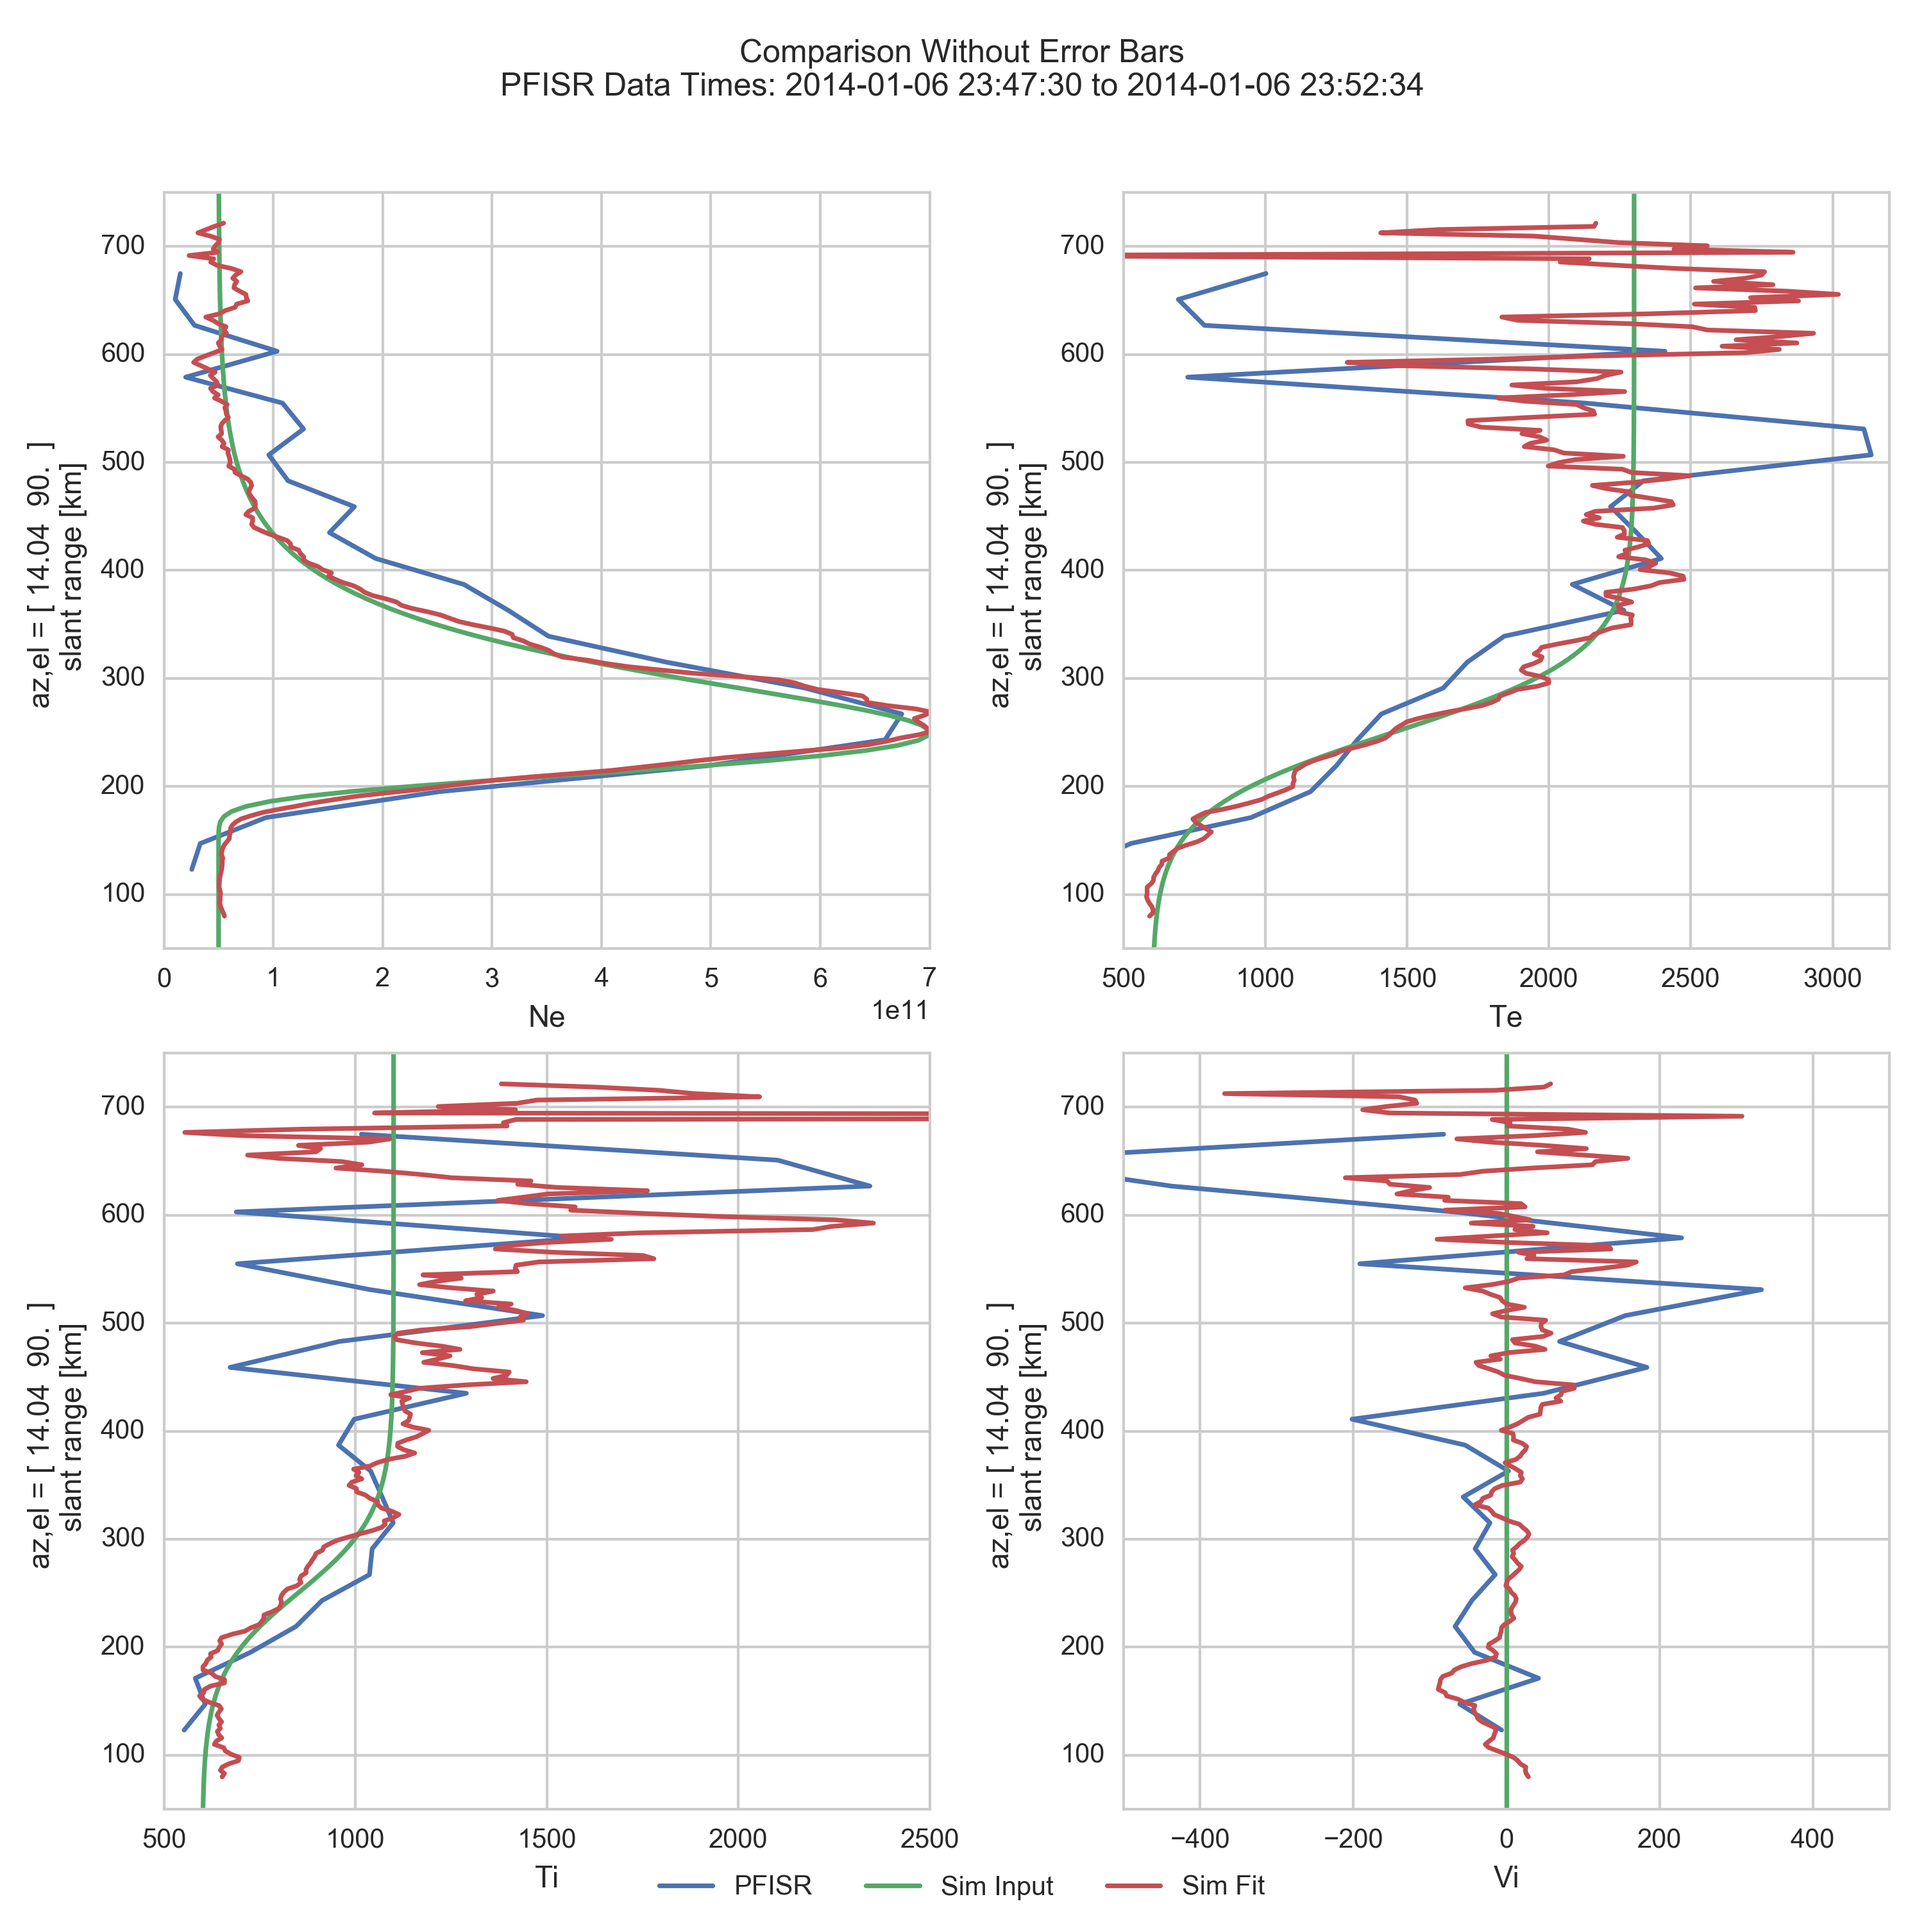
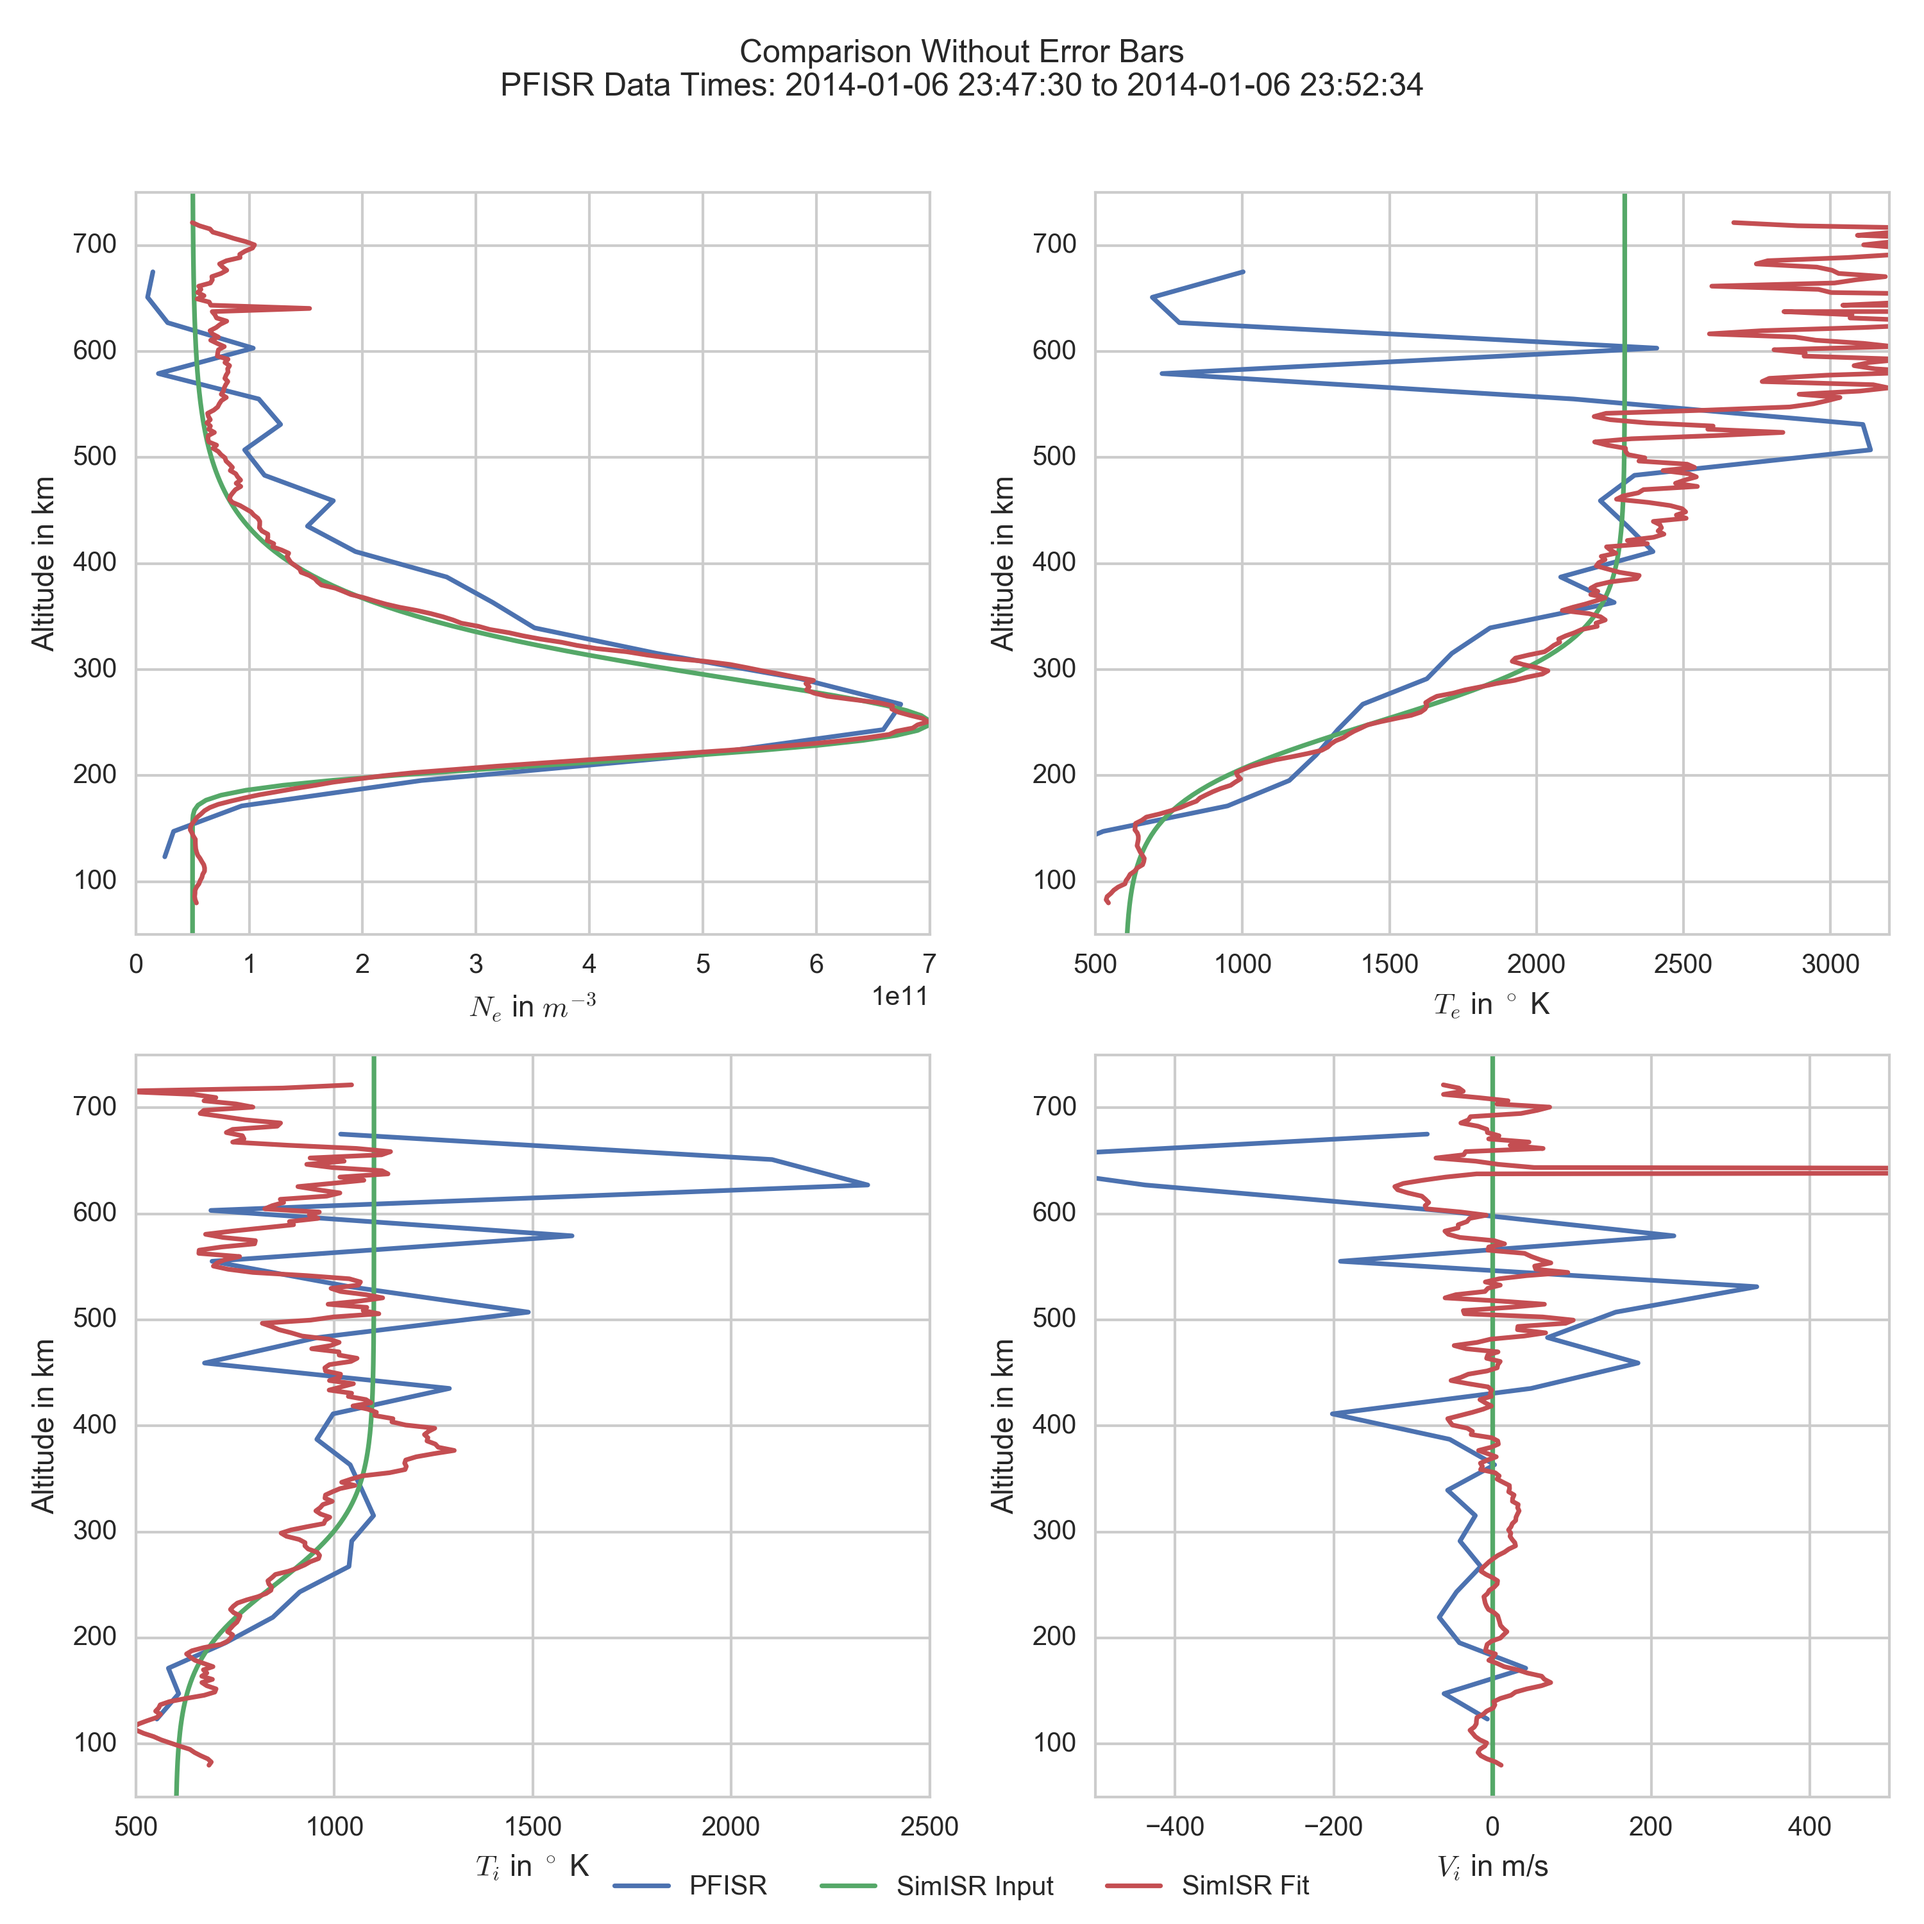
fixed simisr comparison image

diff --git a/5_Inversions/inversion.tex b/5_Inversions/inversion.tex
@@ -8,10 +8,10 @@
 \graphicspath{{5_Inversions/Figures/}}
 
 %%%%%%%%%%%%%%%%%%%%%%%%%%%%%%%%%%%%%%%%%%%%%%%%%%%%%%%%%%%%%%%%%%%%%%%%%
-This chapter will describe methods developed to invert the ISR space-time ambiguity function and improve on current reconstruction schemes. The first section will describe these inversion methods which are different types of constrained least squares. The next section will show examples using runs from STISRS to determine the utility of these inversion on reconstructing the true plasma parameters.
+This chapter will describe methods developed to invert the ISR space-time ambiguity function and improve on current reconstruction schemes. The first section will describe these inversion methods which are different types of constrained least squares. The next section will show examples using runs from SimISR to determine the utility of these inversion on reconstructing the true plasma parameters.
 
 \section{Method Description}
-As discussed in Section \ref{sec:imgrec}, the main trade-off between the two approaches is computational complexity versus accuracy of solution. Full profile analysis and other parametric regularization schemes require a large amount of computation to find a solution as the operator between the plasma parameters and ISR spectra is non-linear and thus various techniques from are not useful. With data-based regularization techniques the computational requirements are significantly lowered as on is performing a linear inversion. Still this can lead to estimated ACFs that can not be created by the incoherent scattering operator.
+As discussed in Section \ref{sec:imgrec}, the main trade-off between the two approaches, parametric and data based reconstruction, is computational complexity versus accuracy of solution. Full profile analysis and other parametric regularization schemes require a large amount of computation to find a solution as the operator between the plasma parameters and ISR spectra is non-linear and thus various techniques from are not useful. With data-based regularization techniques the computational requirements are significantly lowered as on is performing a linear inversion. Still this can lead to estimated ACFs that can not be created by the incoherent scattering operator.
 
 In order to reconstruct the field of plasma parameter values we treat the space-time ambiguity as a linear operator. This allows for the use of inversion schemes from image processing. In this case objective function will be 
 
